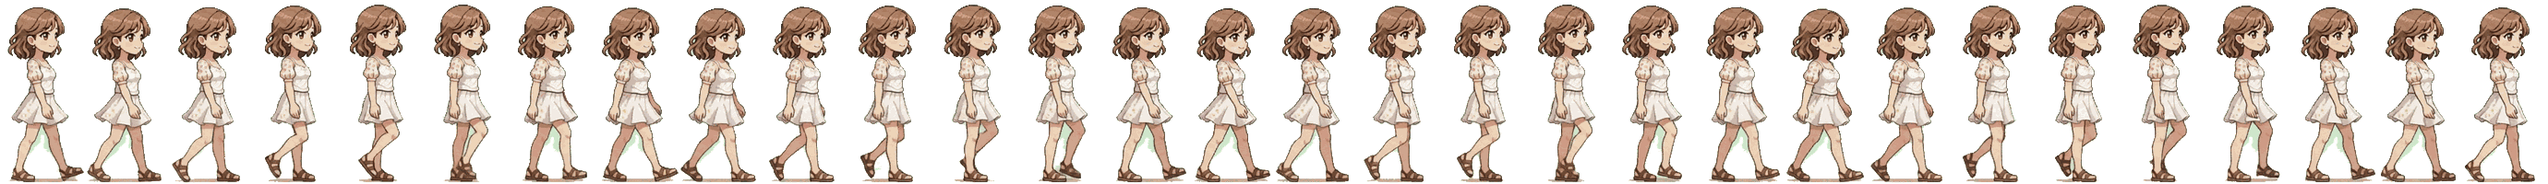
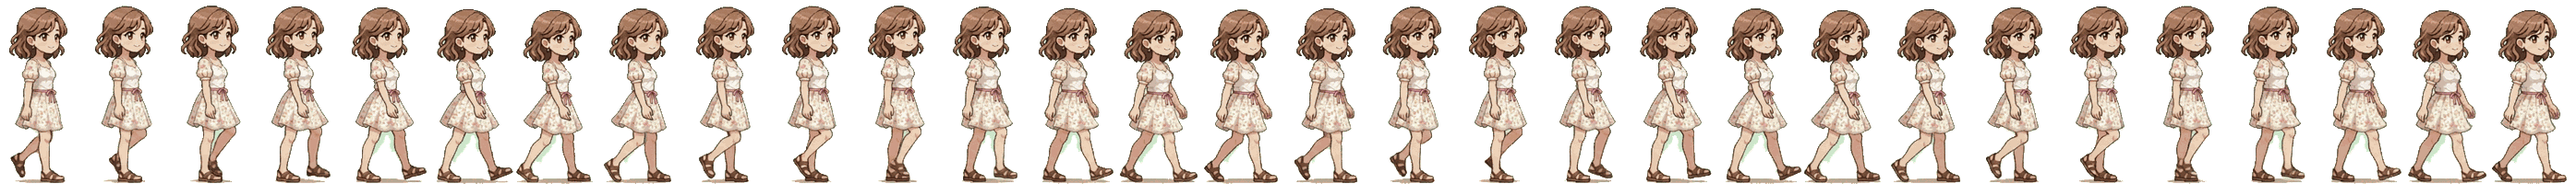
ミオの 花柄の ワンピースの 歩きを 作りなおし版に（スカートが 花柄・ピンクの リボン）
Claude-Session: https://claude.ai/code/session_01PV2MDoW8eYpCQDB9M9yore

diff --git a/sw.js b/sw.js
@@ -2,7 +2,7 @@
 // 更新が届かない端末が出ないように：
 //  - インストール時は画面の部品だけを保存する（音声40MBを一度に取りにいくと、1つ失敗しただけで更新が止まるため）。音声は聞いたときに保存
 //  - いつもネットの最新版を先に取りにいき（変わっていなければ304で軽い）、つながらない・遅いときだけ保存した物を使う
-const CACHE='hoshienglish-v363',AUD='hoshienglish-audio',MIOC='hoshienglish-mio';
+const CACHE='hoshienglish-v364',AUD='hoshienglish-audio',MIOC='hoshienglish-mio';
 const CORE=['./','index.html','manifest.webmanifest','icon-192.png','icon-512.png','apple-touch-icon.png','beach/scene.js','beach/scene.css','beach/host.js','beach/host-after.js','game/se.js','game/levels/index.js','game/levels/es.js','game/levels/jh.js','game/levels/jh-more.js','game/levels/hs.js','game/levels/hs-more.js','game/levels/adv.js','game/levels/adv-more.js','game/levels/basic-add.js','game/extras/pop.js','game/extras/season.js','game/extras/folk.js','game/extras/cheer.js','game/extras/talk.js','game/grammar/es.js','game/grammar/jh.js','game/grammar/hs.js','game/catalog.js','game/music-lofi.js','game/game.js','game/recent.js','game/adventure.js','game/cards-data.js','game/cards.js','game/cards.css','game/mina-lines.js','game/mina-talk.js','game/mina-sense.js','game/mina.js','game/mina.css','game/lessons/index.js','game/lessons/es.js','game/lessons/jh.js','game/lessons/hs.js','game/lessons/manabi.js','game/lessons/icons.js','game/lesson.js','game/gram-link.js','game/gram-see.js','game/bonus.css','game/motivate.js','game/motivate.css','game/review.js','game/review.css','game/kaiwa-data.js','game/kaiwa-story.js','game/kaiwa.js','game/kaiwa.css','game/sensei-data.js','game/sensei-drill-more.js','game/sensei-scenes.js','game/sensei.js','game/deep-data.js','game/deep-more.js','game/deep.js','game/sensei.css','game/adventure.css','game/game.css','game/bottle.js','game/bottle.css','game/zakka-data.js','game/zakka-more.js','game/zakka-talk.js','game/zakka-goods.js','game/zakka-goods-talk.js','game/zakka-now.js','game/zakka.js','game/zakka.css','game/tutor-data.js','game/tutor-more.js','game/tutor-teach.js','game/tutor-talk.js','game/tutor.js','game/tutor.css','game/gift-data.js','game/gift-vary.js','game/gift-quick.js','game/gift.js','game/gift.css','game/love-data.js','game/love-more.js','game/love-extra.js','game/love-final.js','game/love.js','game/love.css','game/cg-data.js','game/cg.js','game/shop-data.js','game/shop-mutter.js','game/mio.js','game/mio-pix.js','game/look-mix.js','game/mio-doki.js','game/mio-gif.js','game/shop-serve-data.js','game/shop-buyin-data.js','game/shop-serve.js','game/shop-deco.js','game/shop.js','game/cbook.js','game/mine-items.js','game/mine.js','game/mine-story.js','game/mine-rest.js','game/mine-walkie.js','game/ore.js','game/hours.js','game/mio-room.js','game/mio-home.js','game/dungeon-art.js','game/dungeon.js','game/mio-talk.js','game/mio-chat.js','game/mio-love-data.js','game/mio-love.js','game/date-data.js','game/date.js','game/house-data.js','game/house.js','game/fest-data.js','game/fest.js','game/mio-spice.js','game/doki.js','game/mio-memo.js','game/mio-study-data.js','game/mio-study.js','game/mio-ctr-data.js','game/mio-ctr-long.js','game/kaiwa-moved.js','game/mio-ctr.js','game/cg-more.js','game/cg.css','game/shop.css','game/date.css','game/house.css','game/fest.css','game/cbook.css','game/ore.css','game/food-data.js','game/food.js','game/food.css','game/tango-talk.css','game/unchiku-data.js','game/unchiku.js','game/winfo.js','game/winfo-ex.js','game/winfo-data.js','game/winfo-data-tr.js','game/winfo-data-jh.js','game/winfo-data-jh2.js','game/winfo-data-fill.js','game/winfo-data-add.js','game/winfo-roots.js','game/winfo-roots-hs.js','game/winfo-roots-adv.js','game/winfo-roots2.js','game/winfo-roots-hs2.js','game/winfo-roots-adv2.js','game/winfo-roots-adv3.js','game/winfo-roots-adv4.js','game/winfo-roots-tr.js','game/winfo-memo.js','game/winfo-memo-jh.js','game/winfo-memo-jh2.js','game/winfo-memo-hs.js','game/winfo-memo-hs2.js','game/winfo-memo-adv.js','game/winfo-memo-adv2.js','game/winfo-memo-adv3.js','game/winfo-memo-adv4.js','game/winfo-memo-adv5.js','game/abbr.js','game/mina-react-data.js','game/mina-react.js','game/mina-chat-data.js','game/mina-chat.js','game/tango-talk.js','game/horror-data.js','game/horror.js','game/search.js','game/wordtap.js','game/horror.css','game/study-data.js','game/study.js','game/study.css','game/unit.js','game/unit-lines.js','game/modal-data.js','game/modal.js','game/unit-perfect.js','game/unit-comp.js','game/unit-shikumi.js','game/verb-check.js','game/drill-jp.js','game/shikumi-drill.js','game/teach-why.js','game/teach-why2.js','game/unit-auto.js','game/unit-jp.js','game/mina-qa.js','game/mame.js','game/mini-place.js','game/mame.css','game/practice.js','game/kata.js','game/kata.css','game/mina-kotsu.js','game/mina-plan.js','game/gram-go.js','game/modal.css','game/plan.css'];
 self.addEventListener('install',e=>{e.waitUntil(caches.open(CACHE).then(c=>Promise.all(CORE.map(u=>fetch(u,{cache:'reload'}).then(r=>{if(r.ok)return c.put(u,r)}).catch(()=>{})))).then(()=>self.skipWaiting()))});
 self.addEventListener('activate',e=>{e.waitUntil(caches.keys().then(ks=>Promise.all(ks.filter(k=>k!==CACHE&&k!==AUD&&k!==MIOC).map(k=>caches.delete(k)))).then(()=>self.clients.claim()))});
